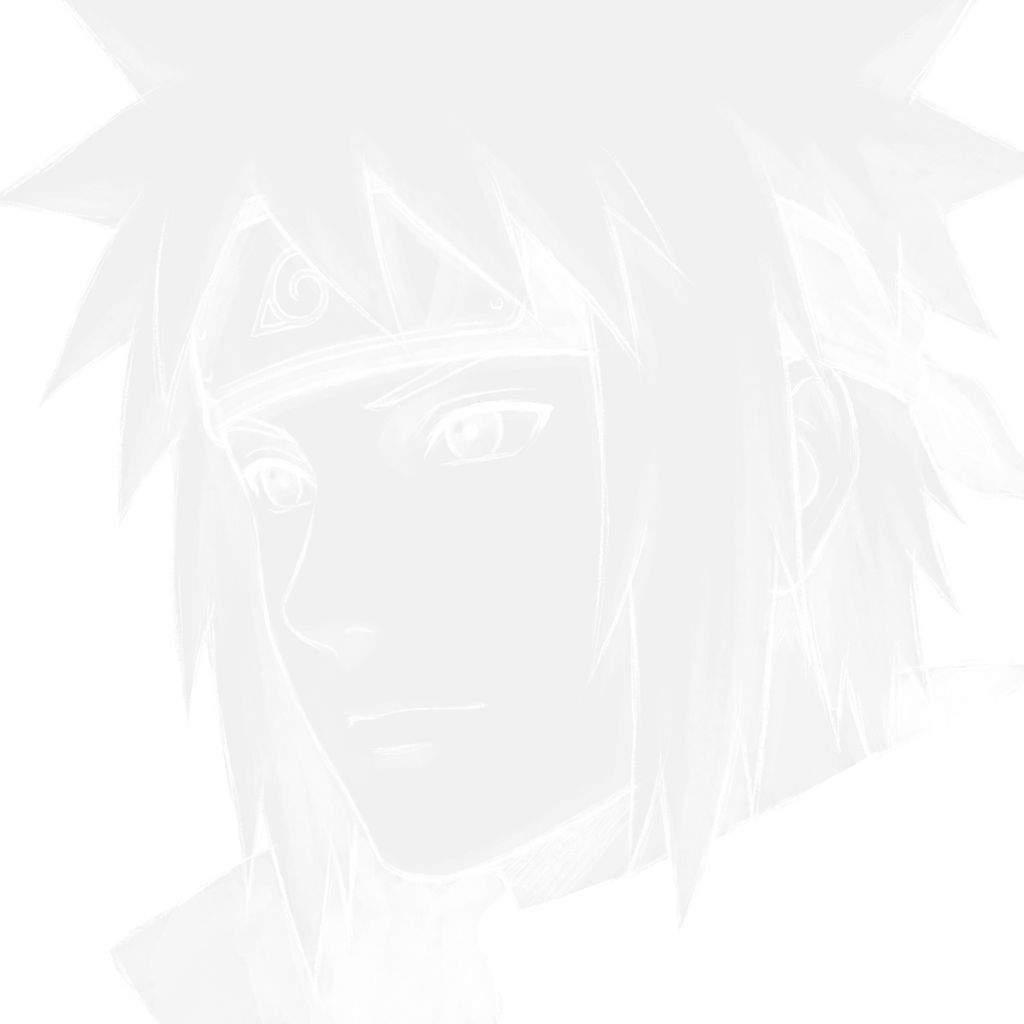
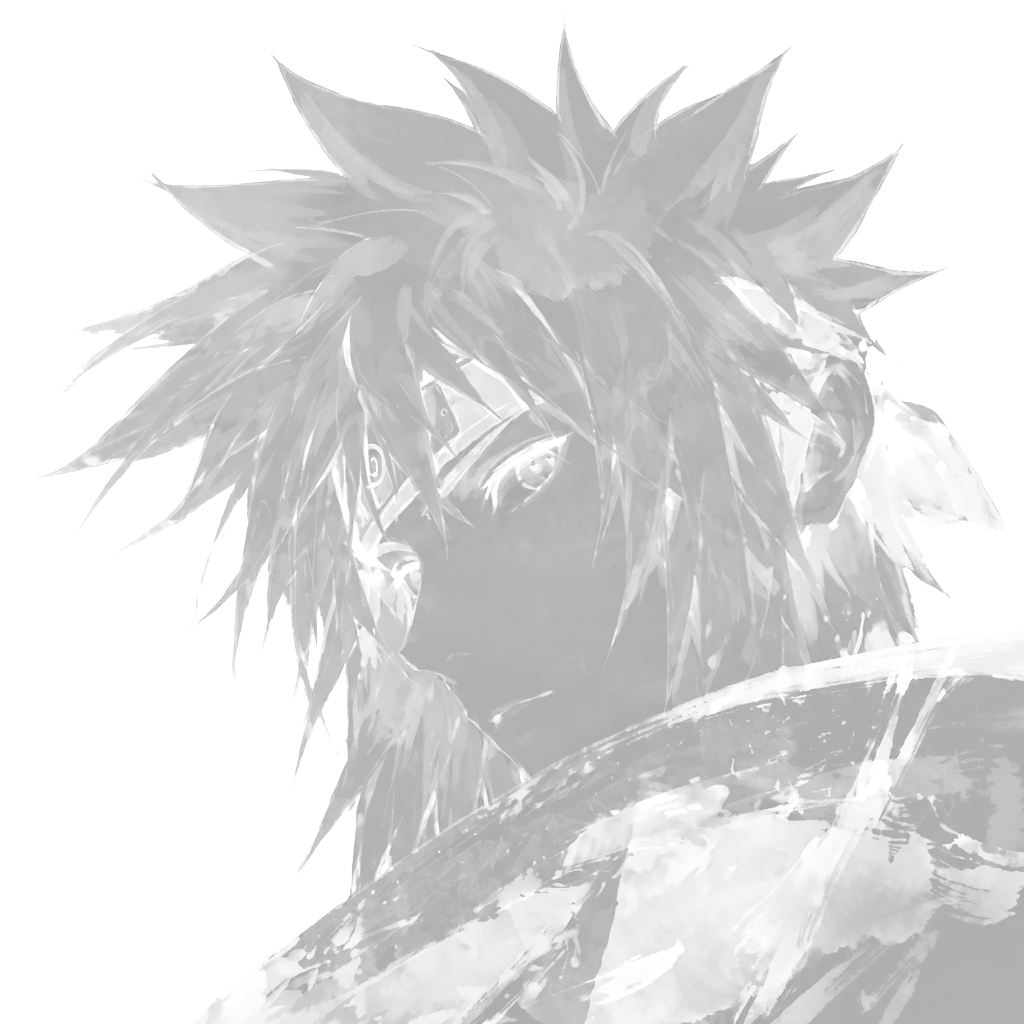
Ink home: echo layer is now the black-and-white drawn Minato from the home art
Isolated on black (gold shards and the coloured Minato removed, hair
completed), made stronger and moved so the face sits between the rail
and the hero clear of his headband ribbon. Service worker cache v112.

diff --git a/css/ui-ink.css b/css/ui-ink.css
@@ -64,9 +64,9 @@ html[data-skin="ink"] .ink-home {
 .ink-layers { inset: 0; }
 .ink-l-bg { inset: 0; width: 100%; height: 100%; object-fit: cover; object-position: 60% 40%; }
 .ink-l-echo {
-  left: var(--ink-rail); top: -6%; height: 78%; width: auto; opacity: 0.32; mix-blend-mode: screen;
-  -webkit-mask-image: radial-gradient(ellipse 60% 60% at 50% 45%, #000 40%, transparent 78%);
-  mask-image: radial-gradient(ellipse 60% 60% at 50% 45%, #000 40%, transparent 78%);
+  left: calc(var(--ink-rail) - 16%); top: -7%; height: 84%; width: auto; opacity: 0.85; mix-blend-mode: screen;
+  -webkit-mask-image: radial-gradient(ellipse 62% 64% at 50% 42%, #000 52%, transparent 82%);
+  mask-image: radial-gradient(ellipse 62% 64% at 50% 42%, #000 52%, transparent 82%);
 }
 .ink-l-hero {
   left: 50%; bottom: -4%; height: 108%; width: auto; transform: translateX(-46%);
@@ -185,6 +185,7 @@ html[data-skin="ink"].ink-dock-open .bottom-icon-bar { z-index: 1003 !important;
 
 /* ── Phone landscape ─────────────────────────────────────────────── */
 html[data-skin="ink"].is-mobile.is-landscape.is-compact .ink-home { --ink-rail: calc(128px + var(--safe-l, 0px)); }
+html[data-skin="ink"].is-mobile.is-landscape.is-compact .ink-l-echo { left: calc(var(--ink-rail) - 11%); }
 html.is-mobile.is-landscape.is-compact .ink-brand { padding: 0 12px 10px; gap: 8px; }
 html.is-mobile.is-landscape.is-compact .ink-brand svg { width: 28px; height: 28px; }
 html.is-mobile.is-landscape.is-compact .ink-brand span { font-size: 7.5px; letter-spacing: 0.3em; }

diff --git a/sw.js b/sw.js
@@ -1,4 +1,4 @@
-const CACHE = 'blazing-shell-v111';
+const CACHE = 'blazing-shell-v112';
 const BASE = new URL('./', self.location.href).pathname;
 const SHELL = [
   'index.html',
